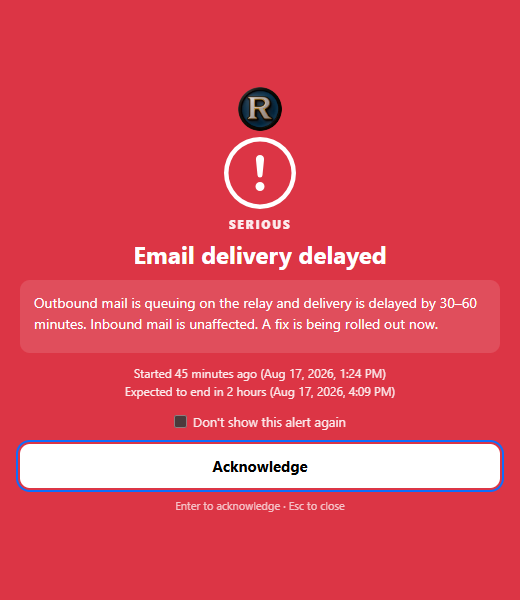
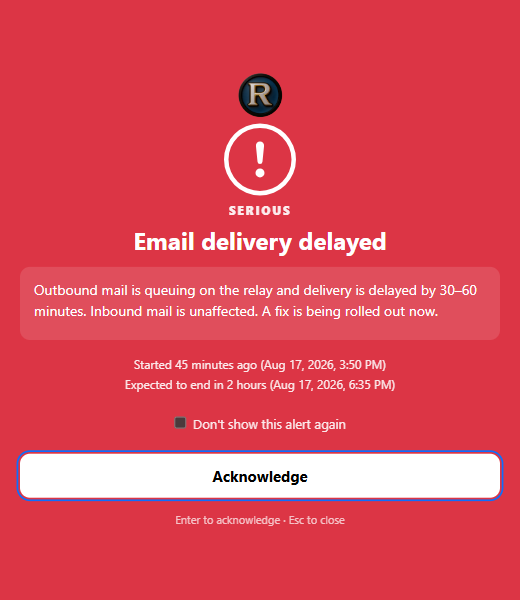
Modal: more breathing room between times, checkbox, button and hint

Changed region(s): [[0.0308, 0.12, 0.9846, 0.66], [0.0308, 0.69, 0.9846, 0.9]]

diff --git a/styles.css b/styles.css
@@ -136,16 +136,16 @@ body.modal.severity-info     { background: #0d6efd; }
   background: rgba(255,255,255,.12); border-radius: var(--radius); padding: 12px 14px;
 }
 body.modal.severity-warning .modal-message { background: rgba(0,0,0,.08); }
-.modal-times { display: flex; flex-direction: column; gap: 2px; font-size: 12px; opacity: .9; margin: 12px 0 6px; }
-.modal-link { color: inherit; font-weight: 600; display: inline-block; margin: 4px 0 8px; }
-.modal-silence { display: inline-flex; margin: 8px 0 14px; font-size: 13px; }
+.modal-times { display: flex; flex-direction: column; gap: 4px; font-size: 12px; opacity: .9; margin: 16px 0 10px; }
+.modal-link { color: inherit; font-weight: 600; display: inline-block; margin: 6px 0 12px; }
+.modal-silence { display: inline-flex; margin: 12px 0 22px; font-size: 13px; }
 .btn-ack {
   display: block; width: 100%; padding: 12px; font-size: 15px; font-weight: 700;
   background: #fff; color: #000; border: none; border-radius: var(--radius); cursor: pointer;
 }
 body.modal.severity-warning .btn-ack { background: #000; color: #fff; }
 .btn-ack:hover { filter: brightness(.92); }
-.modal-hint { font-size: 11px; opacity: .7; margin: 10px 0 0; }
+.modal-hint { font-size: 11px; opacity: .7; margin: 14px 0 0; }
 
 /* ── Options page ────────────────────────────────────────────────────────── */
 body.options { padding: 24px 16px 40px; }
